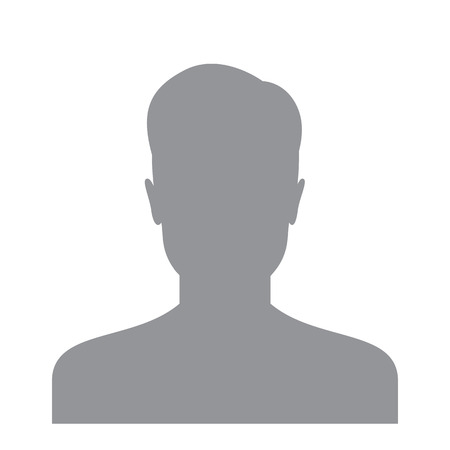
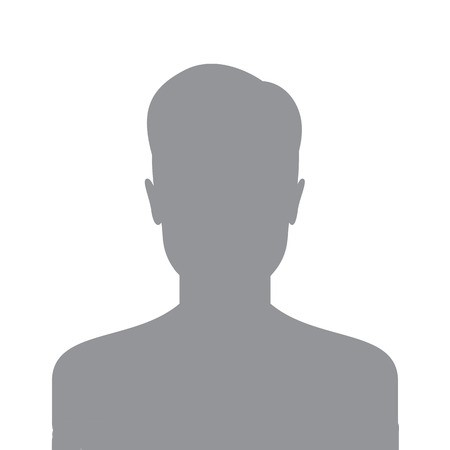
Finition du profil

Changed region(s): [[0.0933, 0.9333, 0.9022, 1.0]]

diff --git a/css/profil.css b/css/profil.css
@@ -1,3 +1,5 @@
+@import url('https://fonts.googleapis.com/css2?family=Roboto&display=swap');
+
 h3 {
     display: block;
     font-size: 1.17em;
@@ -50,6 +52,7 @@ h3 {
 
 .noOwnAd {
 
+    font-family: 'Roboto';
     background-color: rgb(133 169 223 / 23%);
     margin: 4rem 0;
     border-radius: 8px;
@@ -117,6 +120,9 @@ h3 {
     margin-bottom: 1.6rem;
     border-radius: 100%;
     overflow: hidden;
+    display: flex;
+    align-items: flex-end;
+    justify-content: center;
 
 }
 
@@ -139,23 +145,22 @@ h3 {
 
 
 .content {
-
+    font-family: "Roboto";
     position: relative;
     display: -webkit-flex;
     display: -moz-box;
     display: flex;
-    -webkit-flex-direction: column;
     -moz-box-orient: vertical;
     -moz-box-direction: normal;
-    flex-direction: column;
     -webkit-justify-content: flex-start;
     -moz-box-pack: start;
     justify-content: flex-start;
     -webkit-align-items: flex-start;
     -moz-box-align: start;
     align-items: flex-start;
-    padding: 1.6rem;
+    padding: 0.6rem;
     border-bottom: 1px solid #e6ebef;
+    align-items: center;
 
 }
 
@@ -163,10 +168,9 @@ h3 {
 
     width: 60%;
     height: 60%;
-    border: solid 1px rgb(133 169 223);
+    border: solid 2px rgb(78 78 78);
     border-radius: 30px;
     margin-top: 10px;
-    margin-left: 10px;
     
 }
 

diff --git a/css/style.css b/css/style.css
@@ -33,12 +33,7 @@ h1{
 
 /* search engine */
 
-#search-engine{
-    width : 75vw;
-    /* border: 1px solid rgb(165, 165, 165); */
-    border-radius: 1rem;
-    box-shadow: 0px 0px 15px -8px rgb(133, 133, 133);
-}
+
 
 #search-form{
     width:fit-content;

diff --git a/php/profil.php b/php/profil.php
@@ -3,14 +3,20 @@
 
 <head>
   <meta charset="UTF-8">
+
   <meta http-equiv="X-UA-Compatible" content="IE=edge">
+
   <meta name="viewport" content="width=device-width, initial-scale=1.0">
+
   <link rel="stylesheet" href="https://cdn.jsdelivr.net/npm/bootstrap@5.1.3/dist/css/bootstrap.min.css"
     integrity="sha384-1BmE4kWBq78iYhFldvKuhfTAU6auU8tT94WrHftjDbrCEXSU1oBoqyl2QvZ6jIW3" crossorigin="anonymous">
+
   <link rel="stylesheet" href="../css/profil.css">
+
   <link rel="stylesheet" href="../css/style.css">
   
   <title>Compte</title>
+
 </head>
 
 <body>
@@ -22,7 +28,6 @@
   <section id="search-section" class="w-100 d-flex justify-content-center">
 
     <div id="search-engine" class="px-5 py-3 mt-5">
-      <!-- <h2>Rechercher</h2> -->
 
       <div class="profile">
 
@@ -35,6 +40,7 @@
               <img src="../assets/img/user.jpg" alt="avatar">
 
             </div>
+
             <div class="userInfo">
 
               <div class="pseudo">
@@ -76,9 +82,8 @@
       </form> -->
 
     </div>
-  </section>
-  
 
+  </section>
 
 </body>
 

diff --git a/index.php b/index.php
@@ -20,7 +20,7 @@
     ?>
     <section id="search-section" class="w-100 d-flex justify-content-center">
         <div id="search-engine" class="px-5 py-3 mt-5">
-            <h2>Rechercher</h2>
+            <h2 style="margin-bottom:10px;">Rechercher</h2>
             <form action="" method="post" id="search-form">
                 <div class="d-inline-flex flex-column">
                     <label for="keyword-field">Mot-clefs de l'annonce</label>
@@ -32,7 +32,7 @@
                 </div>
                 <div class="d-inline-flex flex-column">
                     <label for="category-search">Catégorie</label>
-                    <select name="category-search" id="category-search">
+                    <select name="category-search" id="category-search" style="padding-bottom:5px">
                         <option value=""></option>
                         <option value="Vente Immobilière">Vente Immobilière</option>
                         <option value="Voitures">Voitures</option>

diff --git a/php/navbar.php b/php/navbar.php
@@ -1,8 +1,8 @@
 <nav class="d-flex justify-content-evenly align-items-center">
-        <h1>The Good Corner</h1>
-        <ul class="d-flex align-items-center mt-3">
-            <li class="mx-3"><a href="php/new.annonce.php">Créer une annonce</a></li>
-            <li class="mx-3"><a href="php/profil.php">Compte</a></li>
+        <h1>The Good Corner</a></h1>
+        <ul style="font-family:'Roboto'" class="d-flex align-items-center mt-3">
+            <li class="mx-3"><a href="new.annonce.php">Créer une annonce</a></li>
+            <li class="mx-3"><a href="profil.php">Compte</a></li>
             <?php 
             if(isset($_SESSION['goodcorner_connected'])){
                 echo '<li><a class="btn btn-danger mx-3" href="php/logout.php">Déconnexion</a></li>';
